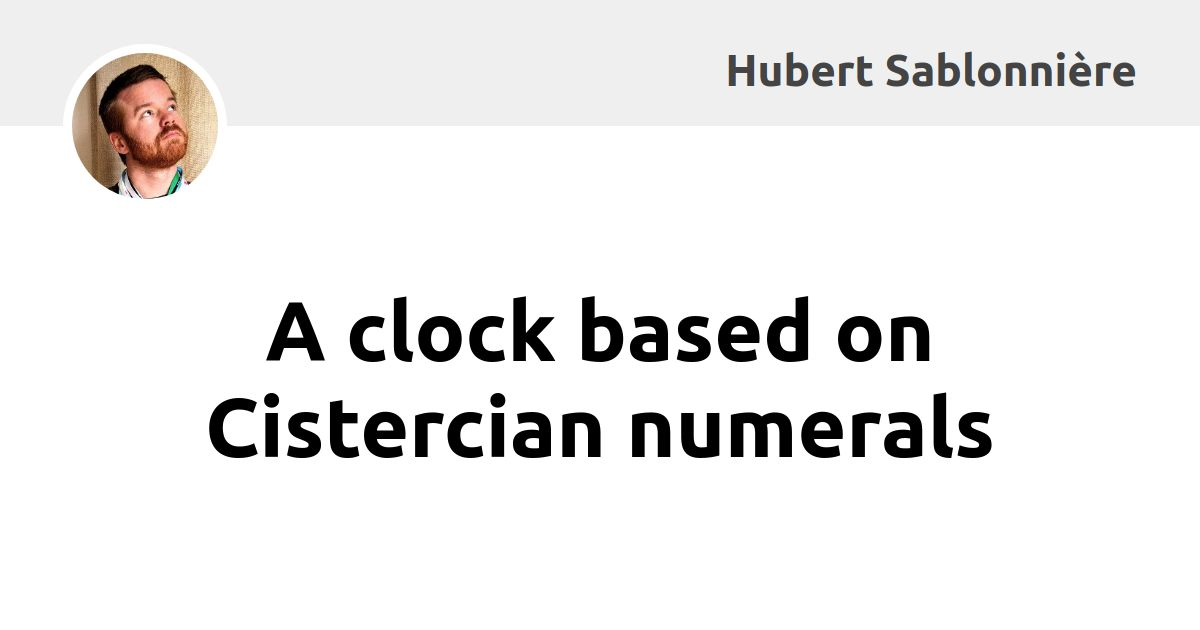
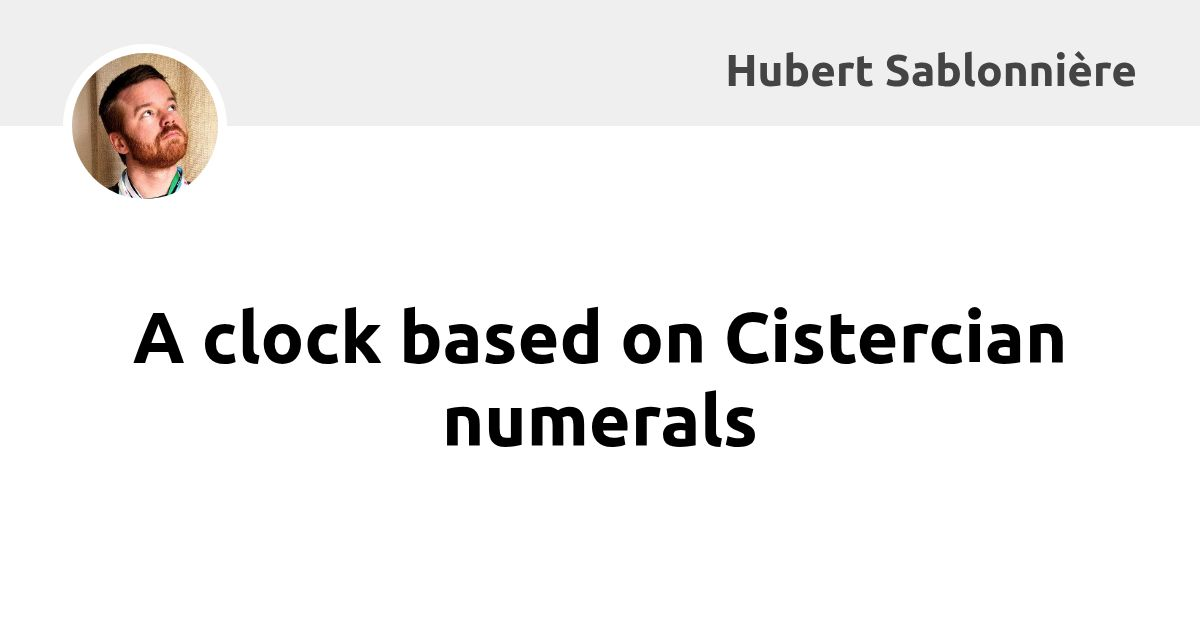
feat: reduce the size of the title on og images

diff --git a/pages/assets/css/article-og-image.css b/pages/assets/css/article-og-image.css
@@ -55,7 +55,7 @@ body {
 }
 
 h1 {
-  font-size: 7vw;
+  font-size: 6vw;
 }
 
 .main h1 ~ *,
